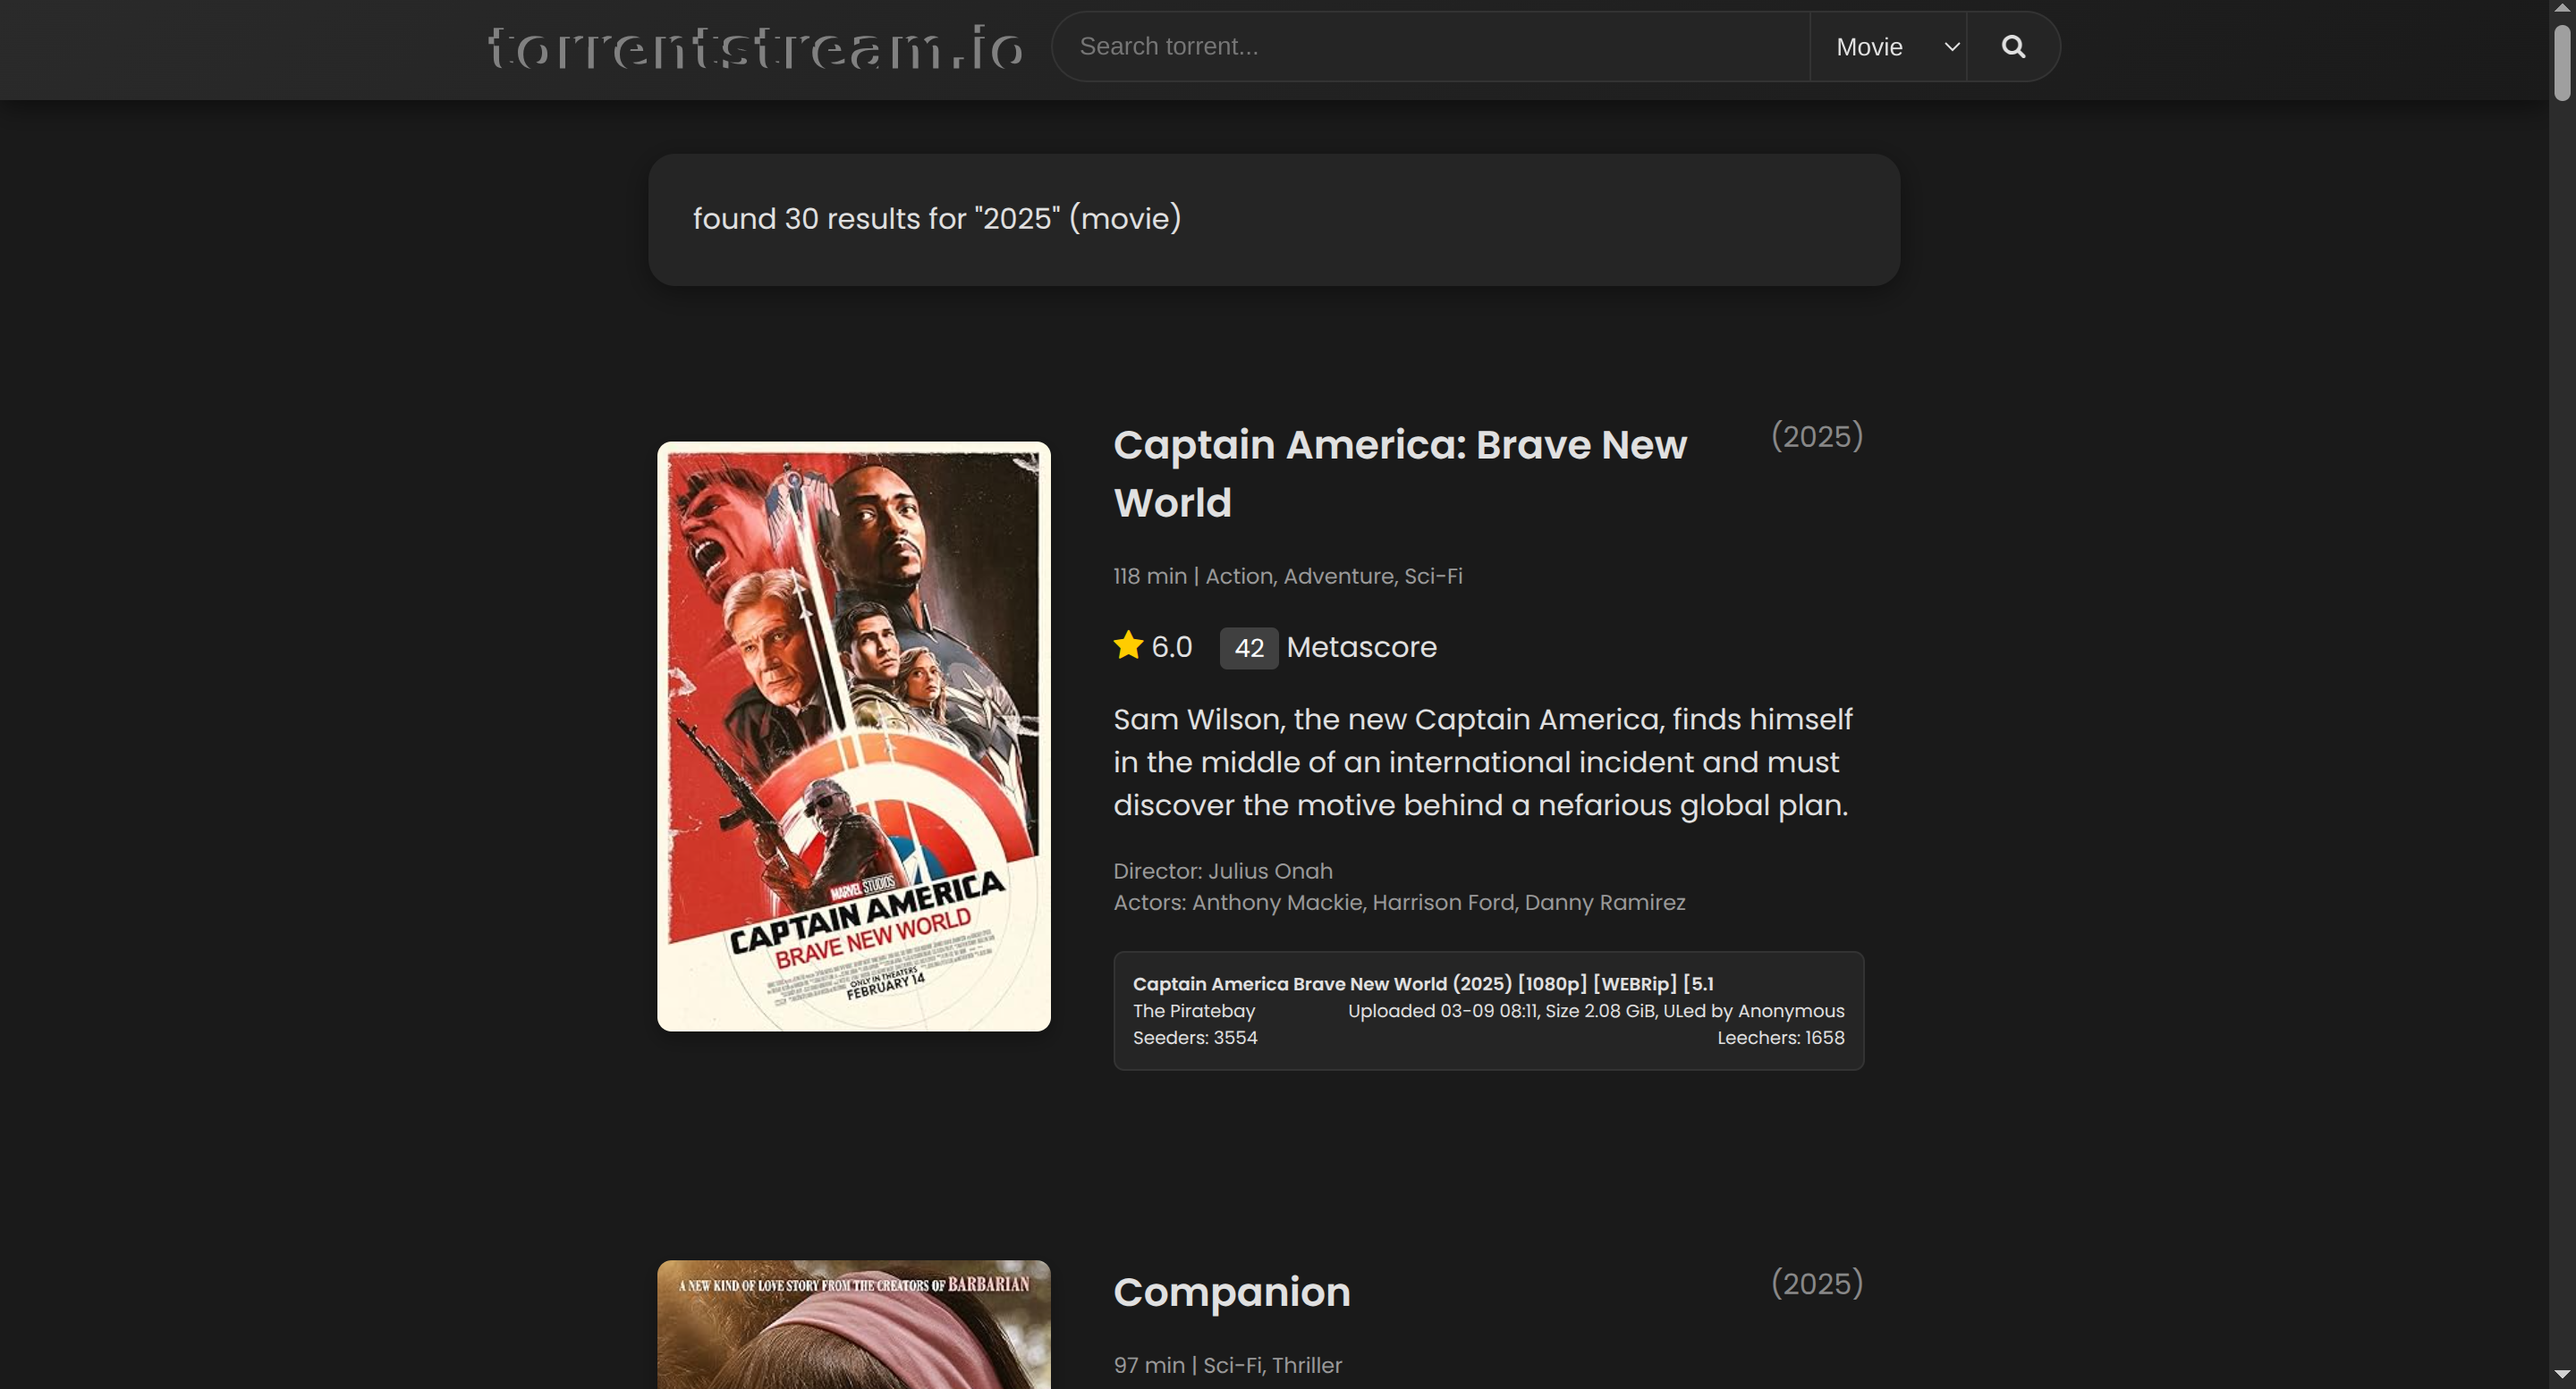
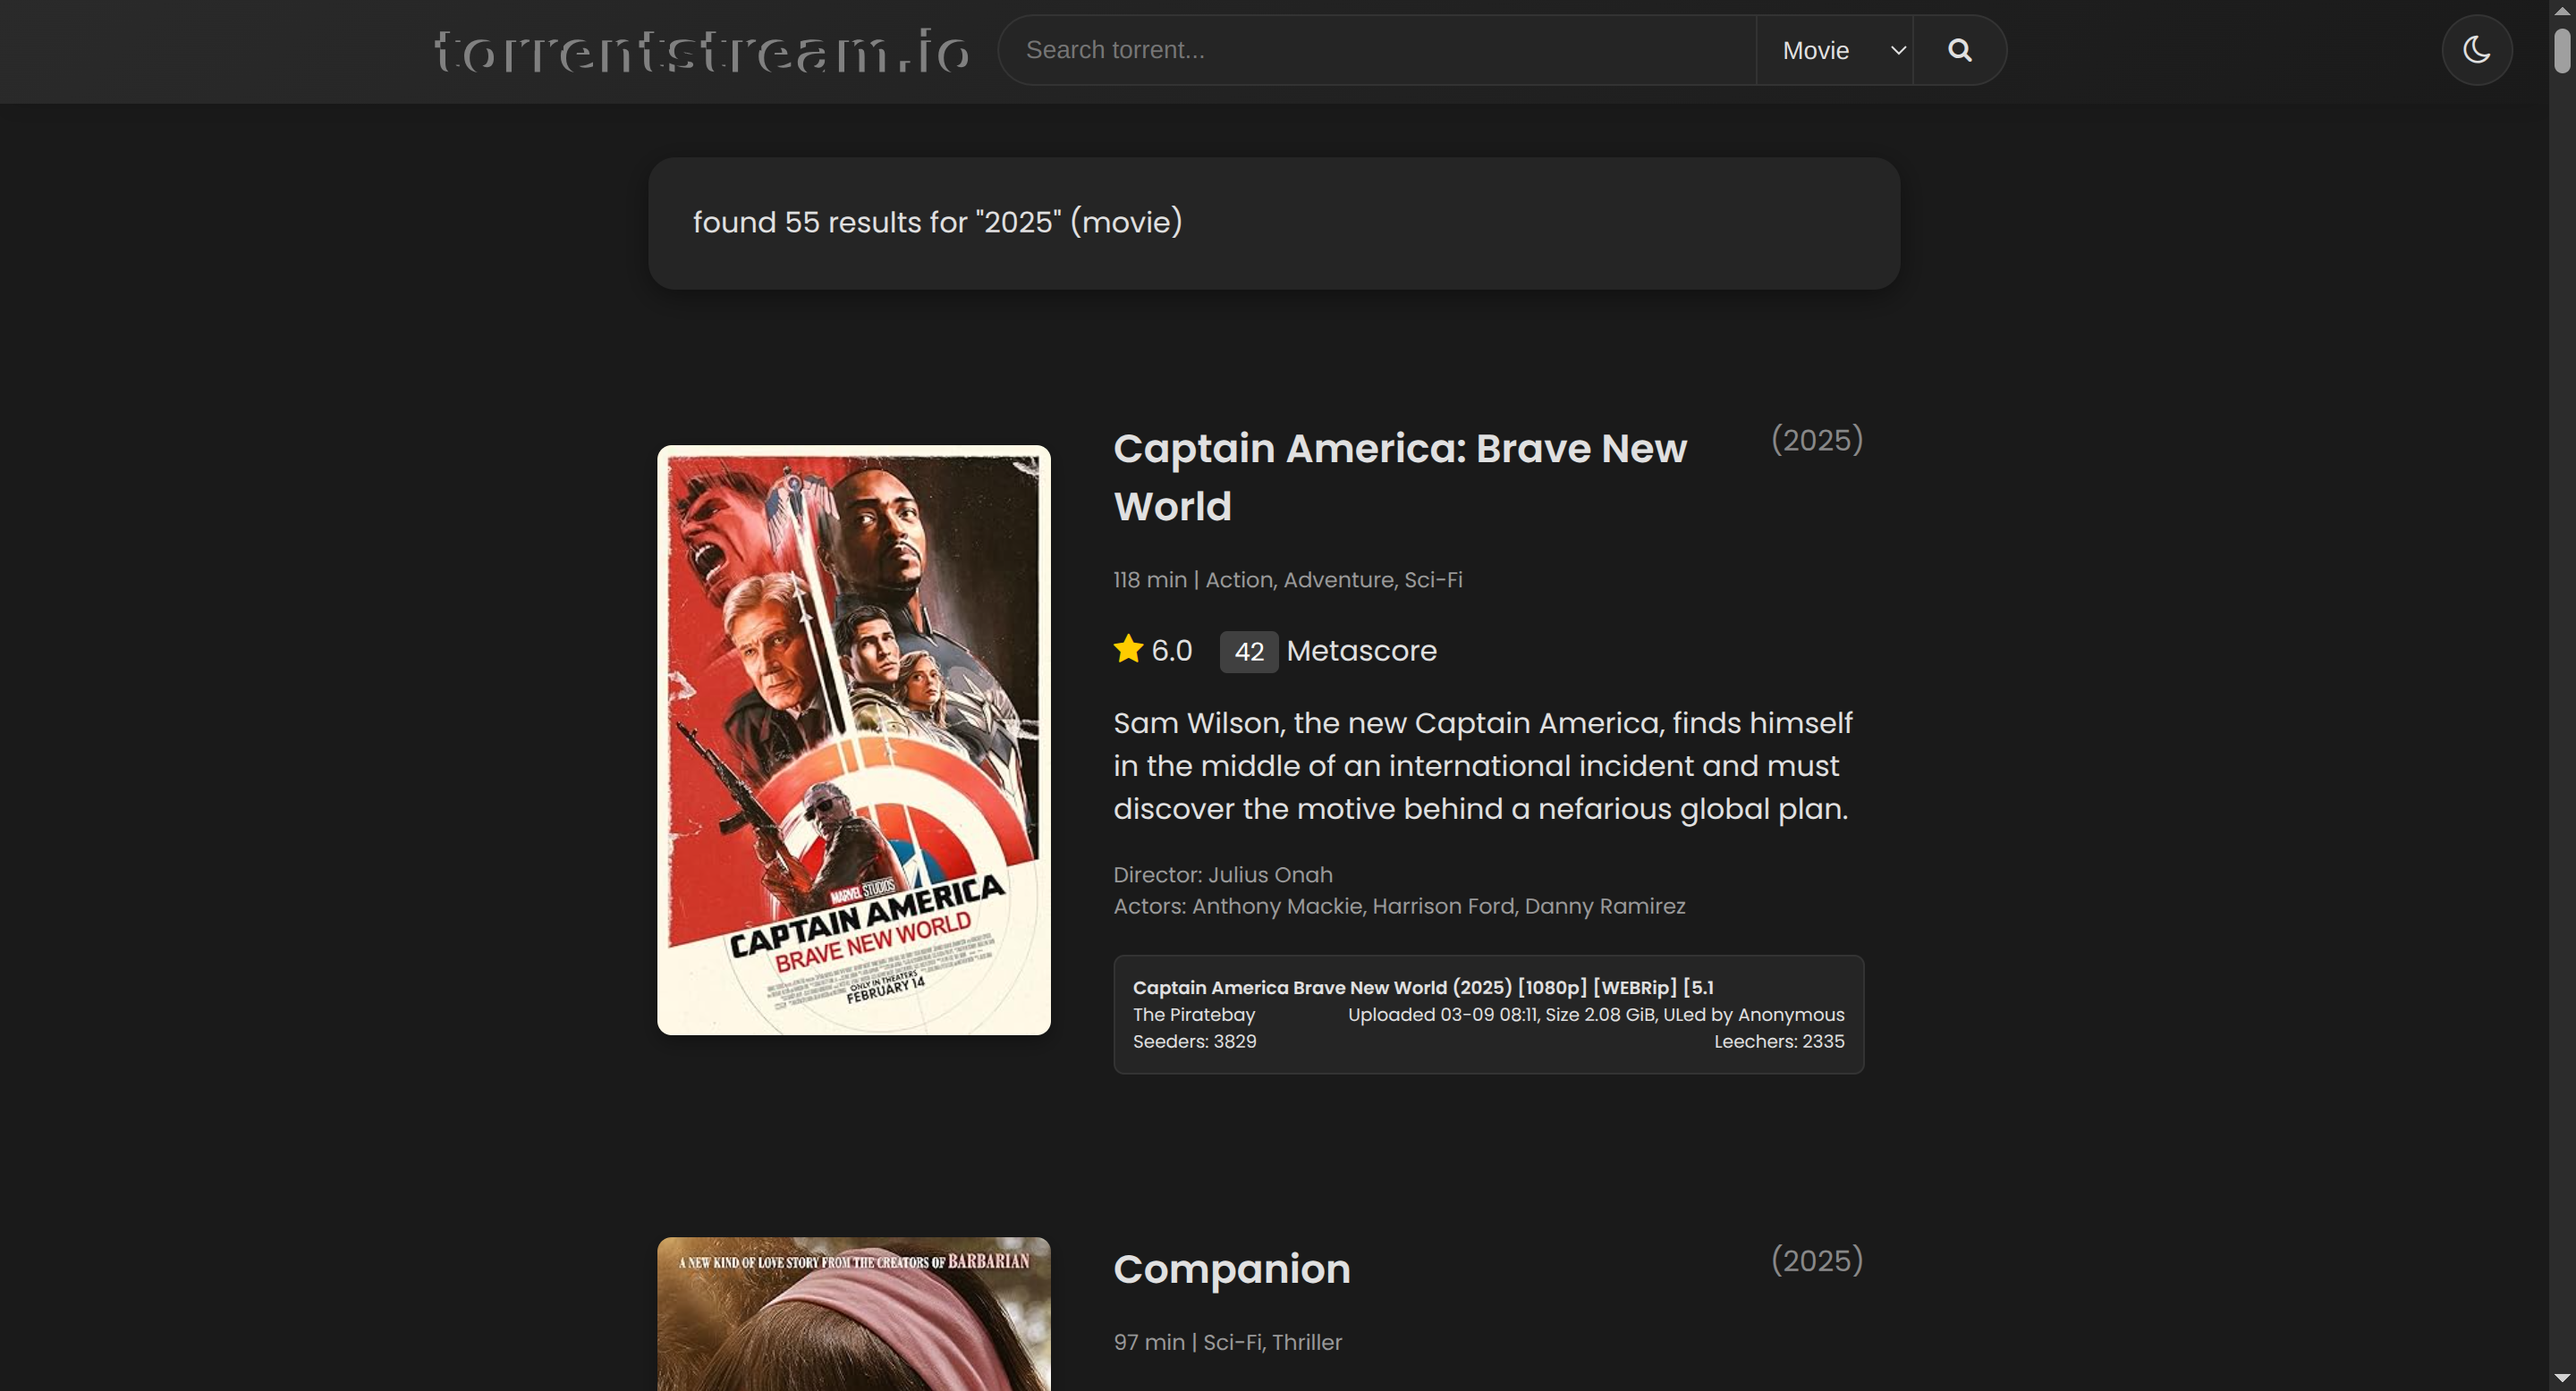
update

diff --git a/www/index.html b/www/index.html
@@ -59,29 +59,7 @@
         position: sticky;
         top: 0;
         z-index: 10;
-    }
-
-    .theme-toggle {
-        position: fixed;
-        top: 20px;
-        right: 20px;
-        width: 40px;
-        height: 40px;
-        border-radius: 50%;
-        background: var(--input-bg);
-        border: 1px solid var(--input-border);
-        color: var(--text-color);
-        cursor: pointer;
-        display: flex;
-        align-items: center;
-        justify-content: center;
-        transition: all 0.3s ease;
-        z-index: 100;
-    }
-
-    .theme-toggle:hover {
-        transform: scale(1.1);
-        box-shadow: 0 0 10px rgba(0, 0, 0, 0.2);
+        position: relative;
     }
 
     .search-bar {
@@ -89,6 +67,8 @@
         align-items: center;
         width: 900px;
         padding: 0 10px;
+        position: relative;
+        margin-right: 60px;
     }
     .search-bar input {
         width: 500px;
@@ -128,11 +108,47 @@
         background: var(--input-bg);
         filter: brightness(0.95);
     }
+    #logo {
+        height: 30px;
+        margin-right: 15px;
+        transition: transform 0.3s ease;
+    }
+    #logo:hover {
+        transform: scale(1.1);
+    }
+
+    .theme-toggle {
+        position: absolute;
+        right: 20px;
+        width: 40px;
+        height: 40px;
+        border-radius: 50%;
+        background: var(--input-bg);
+        border: 1px solid var(--input-border);
+        color: var(--text-color);
+        cursor: pointer;
+        display: flex;
+        align-items: center;
+        justify-content: center;
+        transition: all 0.3s ease;
+        padding: 0;
+        min-width: 40px;
+        min-height: 40px;
+    }
+
+    .theme-toggle i {
+        font-size: 18px;
+    }
+
+    .theme-toggle:hover {
+        transform: scale(1.1);
+        box-shadow: 0 0 10px rgba(0, 0, 0, 0.2);
+    }
 
     .movie {
         display: flex;
         justify-content: center;
-        margin: 30px 0;
+        margin: 15px 0;
         padding: 20px;
         transition: all 0.3s ease;
         align-items: center;
@@ -268,11 +284,10 @@
         </select>
         <button class="icon"><i class="fa fa-search"></i></button>
     </form>
+    <button type="button" class="theme-toggle" onclick="toggleTheme()">
+        <i class="fa fa-moon-o"></i>
+    </button>
 </div>
-
-<button class="theme-toggle" onclick="toggleTheme()">
-    <i class="fa fa-moon-o"></i>
-</button>
 
 <script>
 function toggleTheme() {
